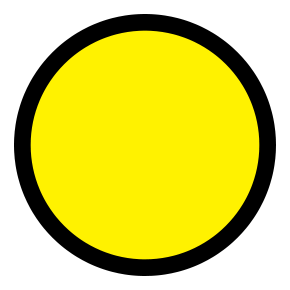
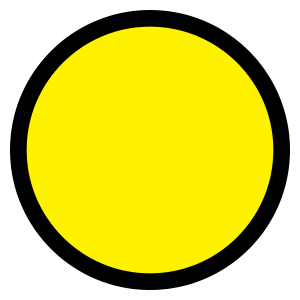
Fixed bug with keyboard and mouse dual use. Made classic token 1, token 2 higher res.

Changed region(s): [[0.031, 0.031, 0.9931, 0.9931]]

diff --git a/src/Connect4.java b/src/Connect4.java
@@ -14,6 +14,7 @@ import java.awt.event.WindowAdapter;
 import java.awt.event.WindowEvent;
 import java.awt.event.WindowFocusListener;
 import java.awt.event.WindowListener;
+import java.awt.event.WindowStateListener;
 import java.io.IOException;
 
 import javax.swing.*;
@@ -24,6 +25,8 @@ public class Connect4 {
 //	private Board board;
 	private JFrame mainFrame;
 	private SideBar sidebar;
+	private int width;
+	private int height;
 	
 	 public static void main(String[] args) throws IOException{
     	final Connect4 c4 = new Connect4();
@@ -54,9 +57,10 @@ public class Connect4 {
 			int boardWidth = guiBoard.getWidth();
 			@Override
 			public void componentResized(ComponentEvent e) {
-				int width = mainFrame.getWidth();
-				int height = mainFrame.getWidth()*19/30;
+				width = mainFrame.getWidth();
+				height = mainFrame.getWidth()*19/30;
 				if(width < 890) width = 890;
+//				if(width)
 				mainFrame.setSize(width, height);
 				int boardWidth = guiBoard.getWidth();
 				int overlayWidth = boardWidth*9/13;
@@ -119,6 +123,20 @@ public class Connect4 {
 //					overlayFrame.toBack();
 				}
 				
+			}
+		});
+		guiBoard.addFocusListener(new FocusListener() {
+			
+			@Override
+			public void focusGained(FocusEvent e) {
+		        guiBoard.setBorder(BorderFactory.createLineBorder(Color.blue));
+		        guiBoard.repaint();
+			}
+		
+			@Override
+			public void focusLost(FocusEvent e) {
+		        guiBoard.setBorder(BorderFactory.createLineBorder(Color.black));
+		        guiBoard.repaint();
 			}
 		});
 		

diff --git a/src/GUIBoard.java b/src/GUIBoard.java
@@ -131,6 +131,9 @@ public class GUIBoard extends JLayeredPane implements ActionListener{
 		        public void mouseReleased(MouseEvent e) {
 	    			if(boardFrozen) return;
 	    			try {
+	    				columnButtons.get(colSelected).setBackgroundImg(colBlank);
+						columnButtons.get(colSelected).repaint();
+						colSelected = colNum;
 	    	      		columnButtons.get(colNum).setBackgroundImg(colMouseOver);
 	    	      		columnButtons.get(colNum).repaint();
 	    	      		board.aiMove();
@@ -478,4 +481,18 @@ public class GUIBoard extends JLayeredPane implements ActionListener{
 			repaint();
 		}
 	}
+
+//	@Override
+//	public void focusGained(FocusEvent e) {
+//		System.out.println("focus gained");
+//        setBorder(BorderFactory.createLineBorder(Color.red));
+//        repaint();
+//	}
+//
+//	@Override
+//	public void focusLost(FocusEvent e) {
+//		System.out.println("focus lost");
+//        setBorder(BorderFactory.createLineBorder(Color.black));
+//        repaint();
+//	}
 }
